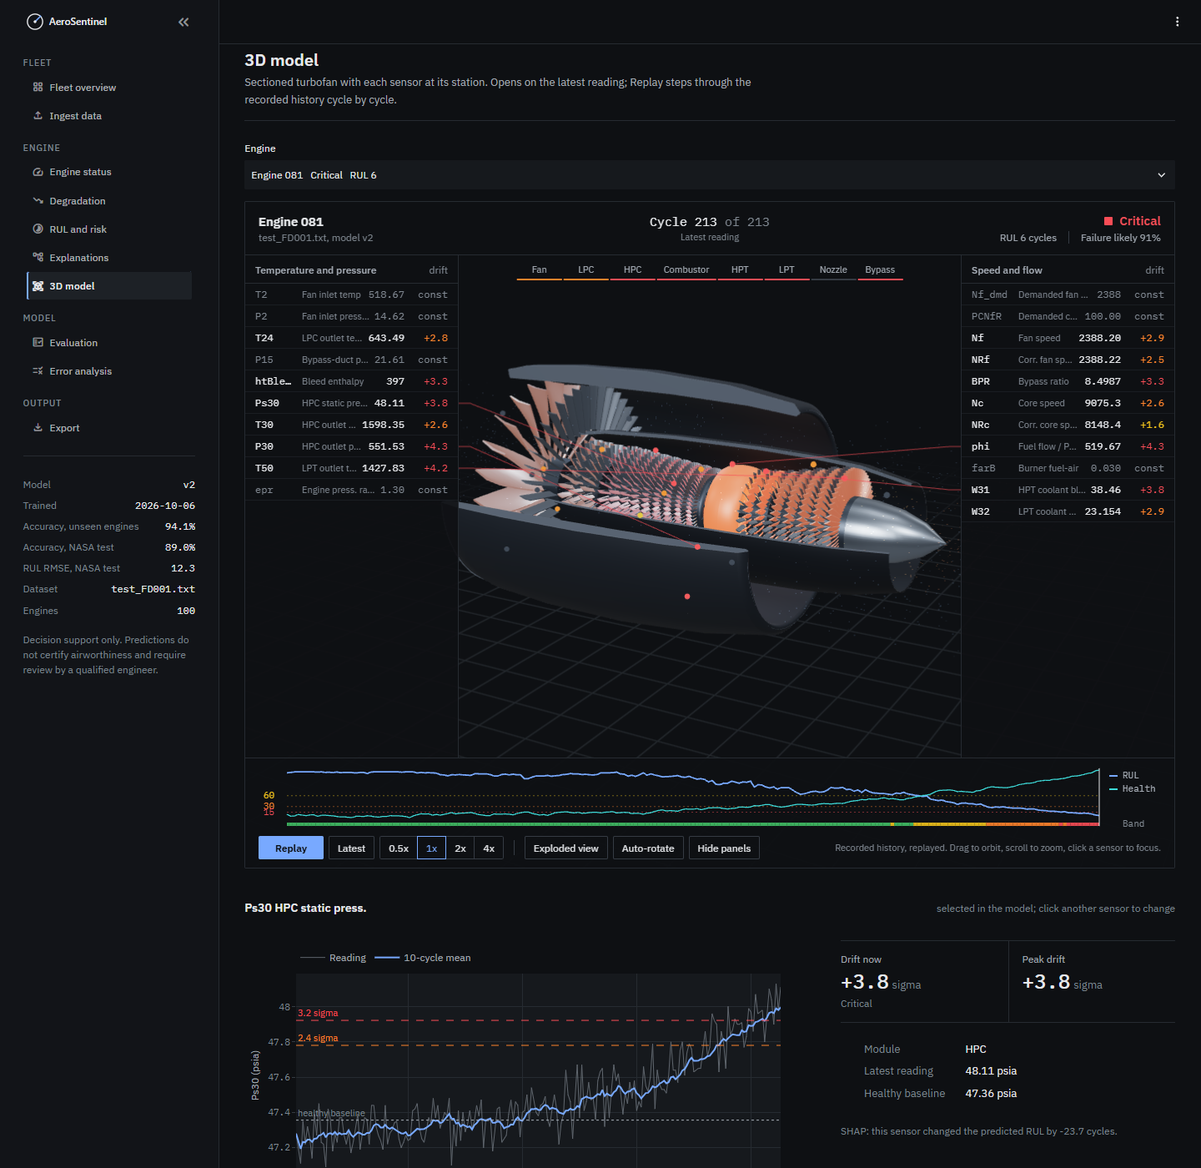
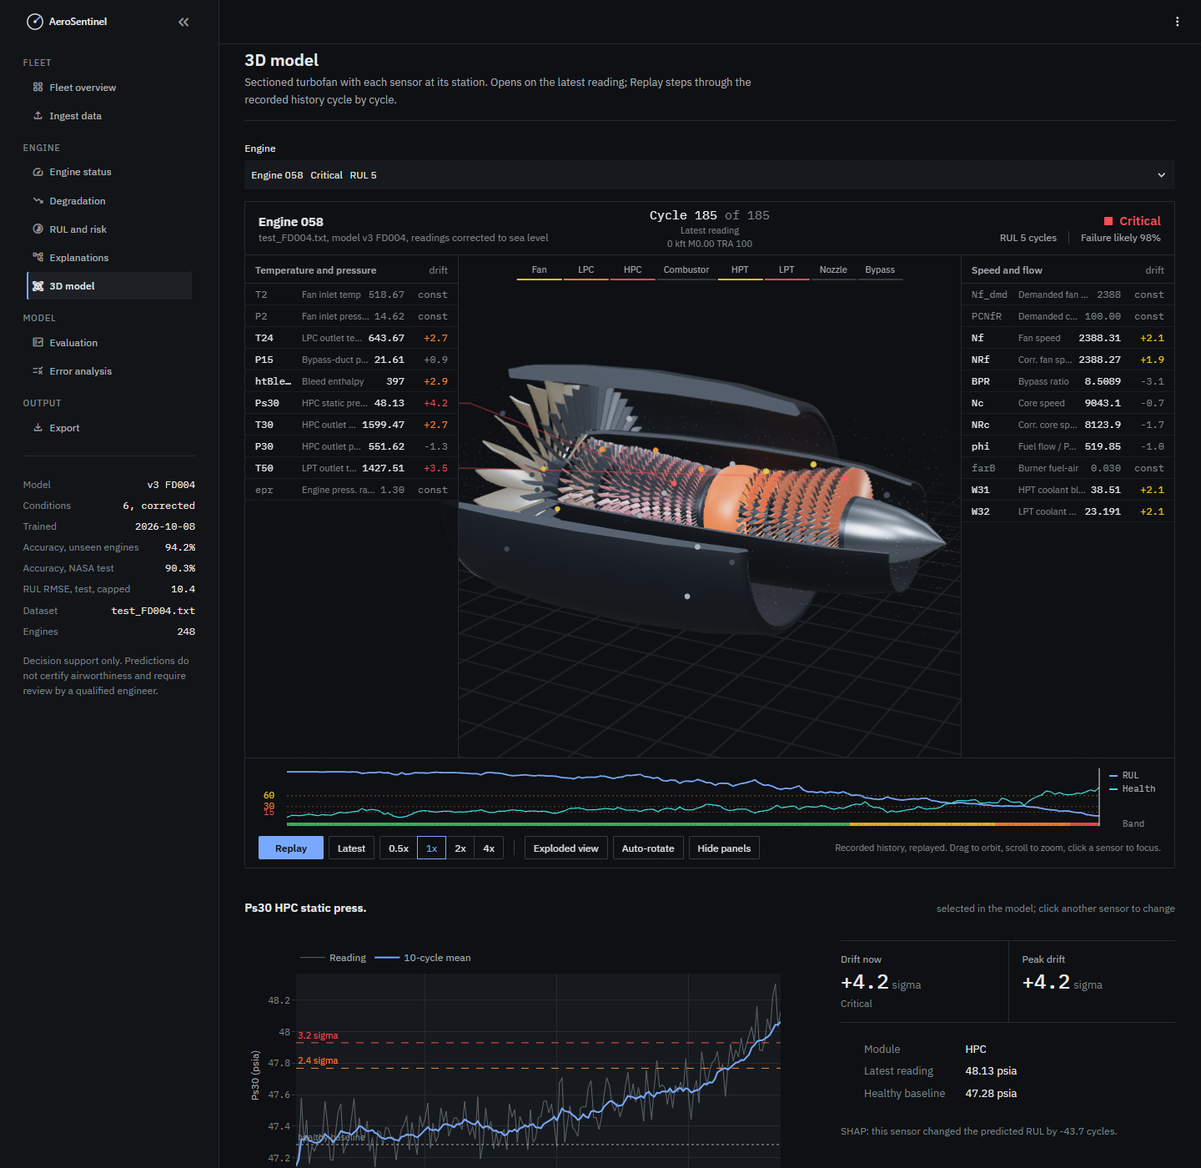
docs: README for the four-subset models
Results per subset, generalisation table, capped versus uncapped RMSE, the
operating-condition step, updated quick start and screenshots of an FD004
engine with the gas-path schematic.

diff --git a/README.md b/README.md
@@ -17,7 +17,8 @@
 
 <p align="center">
   Predictive maintenance for turbofan engines: remaining-useful-life forecasts, four-band failure risk and
-  sensor-level explanations, trained on NASA C-MAPSS and delivered through an engineering console with a 3D engine model.
+  sensor-level explanations, trained on all four NASA C-MAPSS subsets and delivered through an engineering console
+  with a gas-path schematic and a 3D engine model.
 </p>
 
 <p align="center">
@@ -30,11 +31,11 @@
 
 <table align="center">
   <tr>
-    <td align="center"><h2>12.3</h2>cycles of RUL error<br/><sub>RMSE · NASA test set</sub></td>
-    <td align="center"><h2>0.912</h2>R² for RUL<br/><sub>NASA test set</sub></td>
-    <td align="center"><h2>94%</h2>risk bands correct<br/><sub>held-out engines · every cycle</sub></td>
-    <td align="center"><h2>89%</h2>risk bands correct<br/><sub>NASA test set · 100 engines</sub></td>
-    <td align="center"><h2>2.2 s</h2>to score a fleet<br/><sub>100 engines · SHAP included</sub></td>
+    <td align="center"><h2>709</h2>training engines<br/><sub>FD001 to FD004 · one model each</sub></td>
+    <td align="center"><h2>90 to 93%</h2>risk bands correct<br/><sub>NASA test sets · 707 engines</sub></td>
+    <td align="center"><h2>9.6 to 10.7</h2>cycles of RUL error<br/><sub>RMSE · true RUL capped at 125</sub></td>
+    <td align="center"><h2>6</h2>flight conditions corrected<br/><sub>altitude · Mach · throttle</sub></td>
+    <td align="center"><h2>3.7 s</h2>to score 248 engines<br/><sub>FD004 · SHAP included</sub></td>
   </tr>
 </table>
 
@@ -42,37 +43,42 @@
 
 ## Why it exists
 
-A turbofan rarely fails without warning. As its high-pressure compressor wears, temperatures creep up, spool
-speeds shift and fuel flow drifts: a little every cycle, spread across 21 sensor channels. Fixed maintenance
-schedules ignore those signals. They pull healthy engines off the wing early and can still miss the one that is
-degrading fast, and reading raw telemetry by hand stops working after a handful of engines.
+A turbofan rarely fails without warning. As its compressor or fan wears, temperatures creep up, spool speeds shift
+and fuel flow drifts: a little every cycle, spread across 21 sensor channels. In service the same engine also climbs,
+cruises and throttles back, and those changes move the readings far more than wear does. Fixed maintenance schedules
+ignore all of this. They pull healthy engines off the wing early and can still miss the one that is degrading fast.
 
-AeroSentinel reads the full recorded history of every engine in a fleet and answers four questions for each one:
+AeroSentinel reads the full recorded history of every engine in a fleet, takes the flight condition out of each
+reading, and answers four questions for each engine:
 
 | Question | What you get |
 |---|---|
 | **How long has it got?** | Remaining useful life (RUL) in cycles, an 80% range around it, and the end-of-life window that range implies |
 | **How worried should I be?** | One of four risk bands, *Normal*, *At risk*, *High risk* or *Failure likely*, with the model's probability |
-| **What is changing?** | A health score measured against healthy engines, and the drift of every sensor, module by module |
+| **What is changing, and where?** | A health score against healthy engines, and the drift of every sensor, module by module along the gas path |
 | **Why does the model think so?** | The sensors that pushed this prediction up or down, ranked by SHAP |
 
 ---
 
 ## Inside the console
 
-![Engine status page](assets/screenshot_engine_status.png)
+![Engine status page for an FD004 engine, with the gas-path schematic](assets/screenshot_engine_status.png)
 
 **Engine status** puts everything about one engine on a single screen: its condition, RUL on a banded scale, the
-end-of-life window in cycles, how confident the model is, the trend, which sensors are drifting, suggested next
-steps and the SHAP drivers. Step through the fleet with *Previous* and *Next*; the status panel animates from one
-engine's values to the next, so you see exactly what changed.
+end-of-life window in cycles and how confident the model is. Below that, a **gas-path schematic** runs from fan
+inlet to nozzle with the engineering stations (2, 24, 30, 50) marked. Each module is shaded by its most-drifted
+sensor, and the flight condition of the latest cycle sits in the corner. Step through the fleet with *Previous* and
+*Next*; the readouts animate from one engine's values to the next, so you see exactly what changed.
 
 ![3D model page with sensors at their engine stations](assets/screenshot_digital_twin.png)
 
-**3D model** places all 21 sensors at their real stations on a sectioned turbofan, from fan inlet to exhaust.
-Each module takes the colour of its most-drifted sensor, the hot section warms as turbine outlet temperature drifts,
-and *Replay* plays back the engine's recorded life while an event log notes every escalation.
-Keys: `Space` replay or pause, `E` exploded view, `H` hide panels, `Esc` reset the camera.
+**3D model** places all 21 sensors at their real stations on a sectioned turbofan. *Replay* plays back the engine's
+recorded life while the top bar tracks altitude, Mach and throttle for every cycle, and an event log notes each
+escalation. Keys: `Space` replay or pause, `E` exploded view, `H` hide panels, `Esc` reset the camera.
+
+**Ingest data** detects how many operating conditions a file contains, picks the matching model (or lets you
+choose), times every pipeline stage and plots an **operating envelope**: where the engines flew, against the
+conditions the model was trained on.
 
 ### Five condition states
 
@@ -92,19 +98,20 @@ Every engine is in exactly one state, always shown as a word and never by colour
 
 | Section | Page | What it is for |
 |---|---|---|
-| Fleet | **Fleet overview** | Engines ranked by urgency: condition mix, RUL forecast with 80% ranges, attention queue, health-trend heatmap and fleet-wide drivers. Click any engine to open it. |
-| Fleet | **Ingest data** | Upload a C-MAPSS-format file, or use the NASA sample, and get a processing report with data warnings. |
-| Engine | **Engine status** | The single-engine summary shown above. |
+| Fleet | **Fleet overview** | A spec strip (model, conditions, fault modes), engines ranked by urgency, RUL forecast with 80% ranges, attention queue, health-trend heatmap and fleet-wide drivers. Click any engine to open it. |
+| Fleet | **Ingest data** | Upload a C-MAPSS-format file or pick one of the four NASA test fleets; automatic or manual model choice, timed processing report and operating envelope. |
+| Engine | **Engine status** | The single-engine summary and gas-path schematic shown above. |
 | Engine | **Degradation** | Health score over time, the full sensor-drift table, and any sensor plotted against its healthy baseline. |
 | Engine | **RUL and risk** | RUL history across the risk bands, the 80% range, review flags and a filterable fleet table. |
 | Engine | **Explanations** | SHAP drivers behind the RUL and the risk prediction. |
 | Engine | **3D model** | The sectioned engine shown above, with a deep-dive chart for any sensor you click. |
-| Model | **Evaluation** | Verified metrics against baselines, per-band results and confusion matrices. |
-| Model | **Error analysis** | Where the model is wrong on NASA's test engines, and by how much. |
-| Output | **Export** | Engine results and cycle history as CSV, and the full result as JSON. |
+| Model | **Evaluation** | All four subsets side by side, a generalisation matrix (every model on every test fleet), then baselines, per-band results and confusion matrices for one subset. |
+| Model | **Error analysis** | Where each model is wrong on its NASA test fleet, and by how much. |
+| Output | **Export** | Engine results and cycle history as CSV, and the full result (model, conditions, timings) as JSON. |
 
 The look is deliberately calm: IBM Plex type, a dark neutral palette with one blue accent, status colours reserved
-for status, and motion only when something actually changes. Three.js, GSAP and the fonts ship with the repo, so the
+for status, hairline engineering drawings, and motion only when something actually changes. Time-series charts read
+like an oscilloscope, with a cursor line across the plot. Three.js, GSAP and the fonts ship with the repo, so the
 console works offline.
 </details>
 
@@ -112,24 +119,27 @@ console works offline.
 
 ## Quick start
 
-You need Python 3.10 or newer. Trained models ship in `models/v2`, so there is nothing to train before you start.
+You need Python 3.10 or newer. Trained models for all four subsets ship in `models/v3`, so there is nothing to train
+before you start.
 
 ```bash
 git clone https://github.com/Ruc-hi21/AeroSentineL.git
 cd AeroSentineL
 pip install -r requirements.txt
-python -m scripts.download_data              # NASA C-MAPSS FD001 into data/raw/
+python -m scripts.download_data              # NASA C-MAPSS FD001 to FD004 into data/raw/
 python -m streamlit run app/streamlit_app.py
 ```
 
-Open **http://localhost:8501** and press **Load NASA sample fleet**. To try your own data, use *Ingest data* with
-any file in the C-MAPSS layout (unit, cycle, 3 settings, 21 sensors).
+Open **http://localhost:8501**, pick a NASA sample fleet (FD001 to FD004) and press **Load**. To try your own data,
+use *Ingest data* with any file in the C-MAPSS layout (unit, cycle, 3 settings, 21 sensors).
 
 | Also useful | Command |
 |---|---|
-| Retrain model v2 from scratch (about 6 minutes, rewrites `reports/`) | `python -m training.train` |
-| Rank the NASA test engines by risk in the terminal | `python -m scripts.predict` |
-| Run the 52 tests (data, models, pipeline and every console page) | `python -m pytest` |
+| Retrain every subset from scratch (about 35 minutes, rewrites `reports/`) | `python -m training.train` |
+| Retrain one subset | `python -m training.train --subset FD004` |
+| Refresh test metrics and the benchmark from the saved models | `python -m training.train --rescore` |
+| Rank engines by risk in the terminal (model picked automatically, or name one) | `python -m scripts.predict data/raw/test_FD002.txt` |
+| Run the 61 tests (data, conditions, models, pipeline and every console page) | `python -m pytest` |
 
 ---
 
@@ -138,8 +148,10 @@ any file in the C-MAPSS layout (unit, cycle, 3 settings, 21 sensors).
 ```mermaid
 flowchart LR
     A["Sensor file<br/>21 sensors · 3 settings"] --> B["Validate<br/>and clean"]
-    B --> C["Health score<br/>vs healthy engines"]
-    C --> D["197 causal features<br/>per cycle"]
+    B --> P["Pick the model<br/>FD001 to FD004"]
+    P --> K["Correct for<br/>flight condition"]
+    K --> C["Health score<br/>vs healthy engines"]
+    C --> D["Causal features<br/>239 to 256 per cycle"]
     D --> E["XGBoost RUL<br/>+ 80% range"]
     D --> F["XGBoost risk<br/>classifier"]
     E --> G["Blended<br/>4-band risk"]
@@ -151,17 +163,24 @@ flowchart LR
 
 1. **Validate and clean.** Checks the 26-column C-MAPSS layout, drops rows that cannot be tied to an engine and
    cycle, and flags readings outside the range seen in training.
-2. **Keep the sensors that matter.** Seven of the 21 FD001 sensors are flat for the whole run; the 14 that move are kept.
-3. **Score health.** Each sensor is compared with a healthy baseline from the first 30 cycles of the training
-   engines. An engine is *abnormal* above the 99th percentile of healthy behaviour and *critical* at twice that.
-4. **Engineer features.** 197 features per cycle, all causal, so a cycle only ever sees its own past: rolling means
-   and spreads over 5, 15 and 30 cycles, exponentially weighted means, 15/30/50-cycle trend slopes, and drift from
-   the engine's own first 15 cycles.
-5. **Predict RUL.** An XGBoost regressor learns RUL capped at 125 cycles (early life counts as fully healthy), and
+2. **Pick the model.** Each subset has its own model. A file named after a subset uses that one, as long as its
+   operating conditions agree with the name. Otherwise a file with one operating condition goes to the FD003 model
+   and a file with several goes to FD004, the two that held up best on other subsets' data.
+3. **Correct for the flight condition.** FD002 and FD004 engines fly six conditions, from sea level to 42,000 ft at
+   Mach 0.84, at full or part throttle. The model finds them from the settings and maps every reading to the value it
+   would show at the sea-level, full-throttle reference. For single-condition data this step leaves readings unchanged,
+   and readings from a condition the model never saw are flagged rather than trusted.
+4. **Score health.** The sensors that move (14 or 15 of the 21) are compared with a healthy baseline from the first
+   30 cycles of the training engines. An engine is *abnormal* above the 99th percentile of healthy behaviour and
+   *critical* at twice that.
+5. **Engineer features.** All causal, so a cycle only ever sees its own past: rolling means and spreads over 5, 15,
+   30 and 60 cycles, exponentially weighted means, 15/30/50/90-cycle trend slopes, and drift from the engine's own
+   first 15 cycles.
+6. **Predict RUL.** An XGBoost regressor learns RUL capped at 125 cycles (early life counts as fully healthy), and
    10th and 90th percentile quantile models give the 80% range.
-6. **Classify risk.** The classifier's band probabilities are blended 25/75 with the bands implied by the RUL
-   forecast. The 75% weight came from 5-fold cross-validation on training engines only.
-7. **Explain.** SHAP ranks the five sensors with the most influence on each RUL and risk prediction.
+7. **Classify risk.** The classifier's band probabilities are blended with the bands implied by the RUL forecast. The
+   blend weight is chosen per subset by 5-fold cross-validation on training engines only.
+8. **Explain.** SHAP ranks the five sensors with the most influence on each RUL and risk prediction.
 
 | Risk band | Predicted RUL |
 |---|---|
@@ -174,50 +193,87 @@ flowchart LR
 
 ## Results
 
-Every modelling choice was made with GroupKFold cross-validation on the 100 training engines, so no engine
-appears on both sides of a split. NASA's official test set was scored once, at the very end.
+Every modelling choice was made with GroupKFold cross-validation on training engines, so no engine appears on both
+sides of a split. Each NASA test set was scored once, at the end, at the last recorded cycle of every engine.
 
-| | Model v1 | **Model v2** |
-|---|---|---|
-| Risk accuracy · 5-fold CV over training engines | 0.889 | **0.943** |
-| Risk accuracy · 20 held-out engines, every cycle | 0.883 | **0.941** |
-| Risk macro-F1 · held-out engines | 0.798 | **0.880** |
-| Risk accuracy · official test set (100 engines, last cycle) | 0.870 | **0.890** |
-| RUL RMSE · held-out engines (cycles) | 15.07 | **8.62** |
-| RUL RMSE · official test set (cycles) | 17.09 | **12.31** |
-| RUL R² · official test set | 0.831 | **0.912** |
+| Subset | Conditions | Fault modes | Train / test engines | Risk accuracy, test | Macro-F1, test | RUL RMSE, test | RMSE, capped truth | R², test | Accuracy, held-out engines |
+|---|---|---|---|---|---|---|---|---|---|
+| **FD001** | 1 | HPC | 100 / 100 | **92.0%** | 0.880 | 11.9 | 10.7 | 0.918 | 94.7% |
+| **FD002** | 6 | HPC | 260 / 259 | **93.1%** | 0.854 | 22.4 | 9.7 | 0.826 | 94.2% |
+| **FD003** | 1 | HPC and fan | 100 / 100 | **92.0%** | 0.885 | 11.2 | 9.6 | 0.927 | 95.0% |
+| **FD004** | 6 | HPC and fan | 249 / 248 | **90.3%** | 0.818 | 23.5 | 10.4 | 0.815 | 94.2% |
 
-**Against simpler models** on the same 20 held-out engines:
+**Two ways to read RMSE.** The model is trained to top out at 125 cycles, because early life looks the same to every
+sensor. Many FD002 and FD004 test engines have more than 125 cycles left (57 and 67 of them), so the uncapped RMSE is
+inflated by engines the model correctly calls "healthy, 125+". Capping the true RUL at 125 too is how most
+published C-MAPSS results are scored; on that basis every subset lands between 9.6 and 10.7 cycles. The 80% range
+holds the capped truth for 85 to 92% of test engines.
 
-| Model | RUL RMSE (cycles) | Risk accuracy |
-|---|---|---|
-| Linear / logistic regression | 15.5 | 0.930 |
-| Random forest | 9.9 | 0.917 |
-| XGBoost classifier on its own | n/a | 0.937 |
-| **AeroSentinel v2** | **8.6** | **0.941** |
+**When it is wrong, it is wrong by a little.** Across all 707 test engines, all 58 risk-band misses land in the
+neighbouring band and 48 of them are within 5 cycles of a band limit. No engine that is truly *High risk* or
+*Failure likely* is ever called *Normal*. With one prediction per test engine, test accuracy carries a standard
+error of about ±3 points on FD001 and FD003 and about ±2 on FD002 and FD004.
 
-**When it is wrong, it is wrong by a little.** All 11 risk-band misses on the test set land in the neighbouring
-band, and 8 of them are within 5 cycles of a band limit. No engine that is truly *High risk* or *Failure likely*
-is ever called *Normal*. The 80% RUL range contains the true RUL for 85% of held-out cycles and 77% of test engines.
-With one prediction per test engine, test accuracy carries a standard error of about ±3 points.
+**Generalisation.** Every model was also scored on every other subset's test fleet (risk accuracy):
+
+| Model ↓ / test fleet → | FD001 | FD002 | FD003 | FD004 |
+|---|---|---|---|---|
+| FD001 model | **92%** | untrained conditions | 77% | untrained conditions |
+| FD002 model | 92% | **93%** | 76% | 84% |
+| FD003 model | 94% | untrained conditions | **92%** | untrained conditions |
+| FD004 model | 91% | 93% | 93% | **90%** |
+
+Models that saw both fault modes (FD003, FD004) keep their accuracy on single-fault data; single-condition models
+cannot score multi-condition data at all, which the console flags instead of hiding. This table is why files
+without a subset in their name go to FD003 or FD004.
+
+<details>
+<summary><b>FD001 across model versions, and against simpler models</b></summary>
+<br/>
+
+| FD001 | v1 | v2 | **v3** |
+|---|---|---|---|
+| Risk accuracy · 5-fold CV over training engines | 0.889 | 0.943 | **0.942** |
+| Risk accuracy · 20 held-out engines, every cycle | 0.883 | 0.941 | **0.947** |
+| Risk macro-F1 · held-out engines | 0.798 | 0.880 | **0.889** |
+| Risk accuracy · official test set | 0.870 | 0.890 | **0.920** |
+| Risk macro-F1 · official test set | | 0.832 | **0.880** |
+| RUL RMSE · held-out engines (cycles) | 15.07 | 8.62 | **8.06** |
+| RUL RMSE · official test set (cycles) | 17.09 | 12.31 | **11.90** |
+| RUL R² · official test set | 0.831 | 0.912 | **0.918** |
+
+v3 adds 60-cycle rolling windows and 90-cycle trends, chosen by 3-fold CV on training engines: CV RUL RMSE fell from
+9.05 to 8.81 cycles on FD001 and from 10.20 to 9.33 on FD002.
+
+On each subset's held-out engines, compared with simpler models trained on the same features:
+
+| Held-out engines | FD001 | FD002 | FD003 | FD004 |
+|---|---|---|---|---|
+| RUL RMSE · linear regression | 15.2 | 13.6 | 13.1 | 14.1 |
+| RUL RMSE · random forest | 9.8 | 10.4 | 9.2 | 10.7 |
+| **RUL RMSE · AeroSentinel** | **8.1** | **8.9** | **7.8** | **9.5** |
+| Risk accuracy · logistic regression | 93.1% | 92.1% | 94.4% | 92.1% |
+| Risk accuracy · random forest | 92.0% | 92.6% | 93.6% | 93.1% |
+| Risk accuracy · XGBoost classifier alone | 94.2% | 94.1% | 95.3% | 94.2% |
+| **Risk accuracy · AeroSentinel** | **94.7%** | **94.2%** | **95.0%** | **94.2%** |
+</details>
 
 | Target | Goal | Achieved |
 |---|---|---|
-| RUL RMSE on test engines | below 18 cycles | **12.3** |
-| Risk macro-F1 across the four bands | above 0.85 | **0.88** on held-out engines; **0.83** on the test set, just short |
-| Scoring latency | under 25 ms per engine cycle | **about 0.2 ms per cycle**: 13,096 cycles from 100 engines in 2.2 s, SHAP included, on a laptop |
+| RUL RMSE on test engines | below 18 cycles | **11.2 to 11.9** on single-condition subsets; **9.7 to 10.4** capped on multi-condition |
+| Risk macro-F1 across the four bands | above 0.85 | **0.88 to 0.89** on FD001 and FD003, **0.85** on FD002; **0.82** on FD004, short |
+| Scoring latency | under 25 ms per engine cycle | **about 0.1 ms per cycle**: 41,214 FD004 cycles in 3.7 s, SHAP included, on a laptop |
 
 ---
 
-## Two interfaces, one model
+## Two interfaces
 
 | Branch | Interface |
 |---|---|
-| `main` | The engineering console shown above: calm, dense and built for maintenance review. |
-| `ui-streamlit` | The earlier cinematic "mission control" interface, with neon styling and a glowing 3D engine. |
+| `main` | The engineering console shown above: calm, dense, four subset models. |
+| `ui-streamlit` | The earlier cinematic "mission control" interface, with neon styling and a glowing 3D engine, running the previous FD001-only model (v2). |
 
-Both run the same pipeline and the same trained models. Switch with `git checkout ui-streamlit`, then start
-Streamlit as usual.
+Switch with `git checkout ui-streamlit`, then start Streamlit as usual.
 
 ---
 
@@ -227,14 +283,17 @@ Streamlit as usual.
 <summary><b>Dataset</b></summary>
 <br/>
 
-| | |
-|---|---|
-| **Name** | NASA C-MAPSS FD001, turbofan engine degradation simulation |
-| **Source** | [NASA Prognostics Data Repository](https://data.nasa.gov/dataset/C-MAPSS-Aircraft-Engine-Simulator-Data/xaut-bemq) |
-| **Training** | 100 engines, each run until failure |
-| **Test** | 100 engines stopped before failure, with their true RUL provided |
-| **Per cycle** | 21 sensor channels and 3 operational settings |
-| **Scenario** | One operating condition (sea level) and one fault mode (HPC degradation) |
+NASA C-MAPSS turbofan engine degradation simulation, from the
+[NASA Prognostics Data Repository](https://data.nasa.gov/dataset/C-MAPSS-Aircraft-Engine-Simulator-Data/xaut-bemq).
+Training engines run until failure; test engines stop before failure, with their true RUL provided. Every cycle
+carries 21 sensor channels and 3 operational settings (altitude, Mach number, throttle resolver angle).
+
+| Subset | Train engines | Test engines | Operating conditions | Fault modes |
+|---|---|---|---|---|
+| FD001 | 100 | 100 | 1 (sea level) | HPC degradation |
+| FD002 | 260 | 259 | 6 | HPC degradation |
+| FD003 | 100 | 100 | 1 (sea level) | HPC and fan degradation |
+| FD004 | 249 | 248 | 6 | HPC and fan degradation |
 </details>
 
 <details>
@@ -245,14 +304,16 @@ Streamlit as usual.
 app/                    Streamlit console
   views/                one file per page
   engine3d/             Three.js engine model (custom component)
-  instruments/          GSAP engine status panel (custom component)
+  instruments/          GSAP engine status panel and gas-path schematic (custom component)
   insights.py           condition states, confidence, sensor drift, suggested actions
   theme.py              design tokens and shared UI pieces
 src/                    the pipeline: data, preprocessing, analysis, features, models, explainability, evaluation
-training/train.py       trains and evaluates model v2, writes reports/
+  preprocessing/conditions.py   operating-condition detection and correction
+  data/profile.py               picks the subset model for a file
+training/train.py       trains and evaluates one model per subset, writes reports/ and the benchmark
 scripts/                download_data.py, predict.py
-models/v2/              trained models and metadata (v1 kept for comparison)
-reports/                metrics.json, test-set predictions, training figures
+models/v3/<subset>/     trained models and metadata per subset (v1 and v2, FD001 only, kept for comparison)
+reports/<subset>/       metrics, test-set predictions, training figures; reports/benchmark.json compares all four
 tests/                  pytest suite
 ```
 
@@ -266,7 +327,7 @@ Streamlit console.
 
 | Layer | Tools |
 |---|---|
-| Data and ML | Python 3.10+, pandas, NumPy, scikit-learn, XGBoost, SHAP |
+| Data and ML | Python 3.10+, pandas, NumPy, scikit-learn (incl. KMeans for flight conditions), XGBoost, SHAP |
 | Console | Streamlit, Plotly, Three.js r186, GSAP 3.15, IBM Plex Sans and Mono |
 </details>
 
@@ -274,9 +335,12 @@ Streamlit console.
 
 ## Limitations and responsible use
 
-- Trained and evaluated on **FD001 only**: one operating condition and one fault mode, not the full C-MAPSS range.
-- The data is **simulated**, not telemetry from real aircraft.
-- **100 training engines** is a small sample, so overfitting remains a real risk.
+- The data is **simulated** (C-MAPSS), not telemetry from real aircraft. Four subsets cover one or six operating
+  conditions and one or two fault modes, still far narrower than a real fleet.
+- Readings from **flight conditions outside training** are flagged, not corrected; such predictions are unreliable.
+- A file's subset is taken from its name or its number of conditions. FD001 and FD003 data look alike, so unnamed
+  single-condition files go to the FD003 model.
+- RUL is capped at **125 cycles**: the model cannot tell an engine with 150 cycles left from one with 300.
 - The risk-band limits are a **design choice**, not a validated regulatory standard.
 - Suggested actions in the console are rules built on the model's outputs and are labelled as guidance.
 
